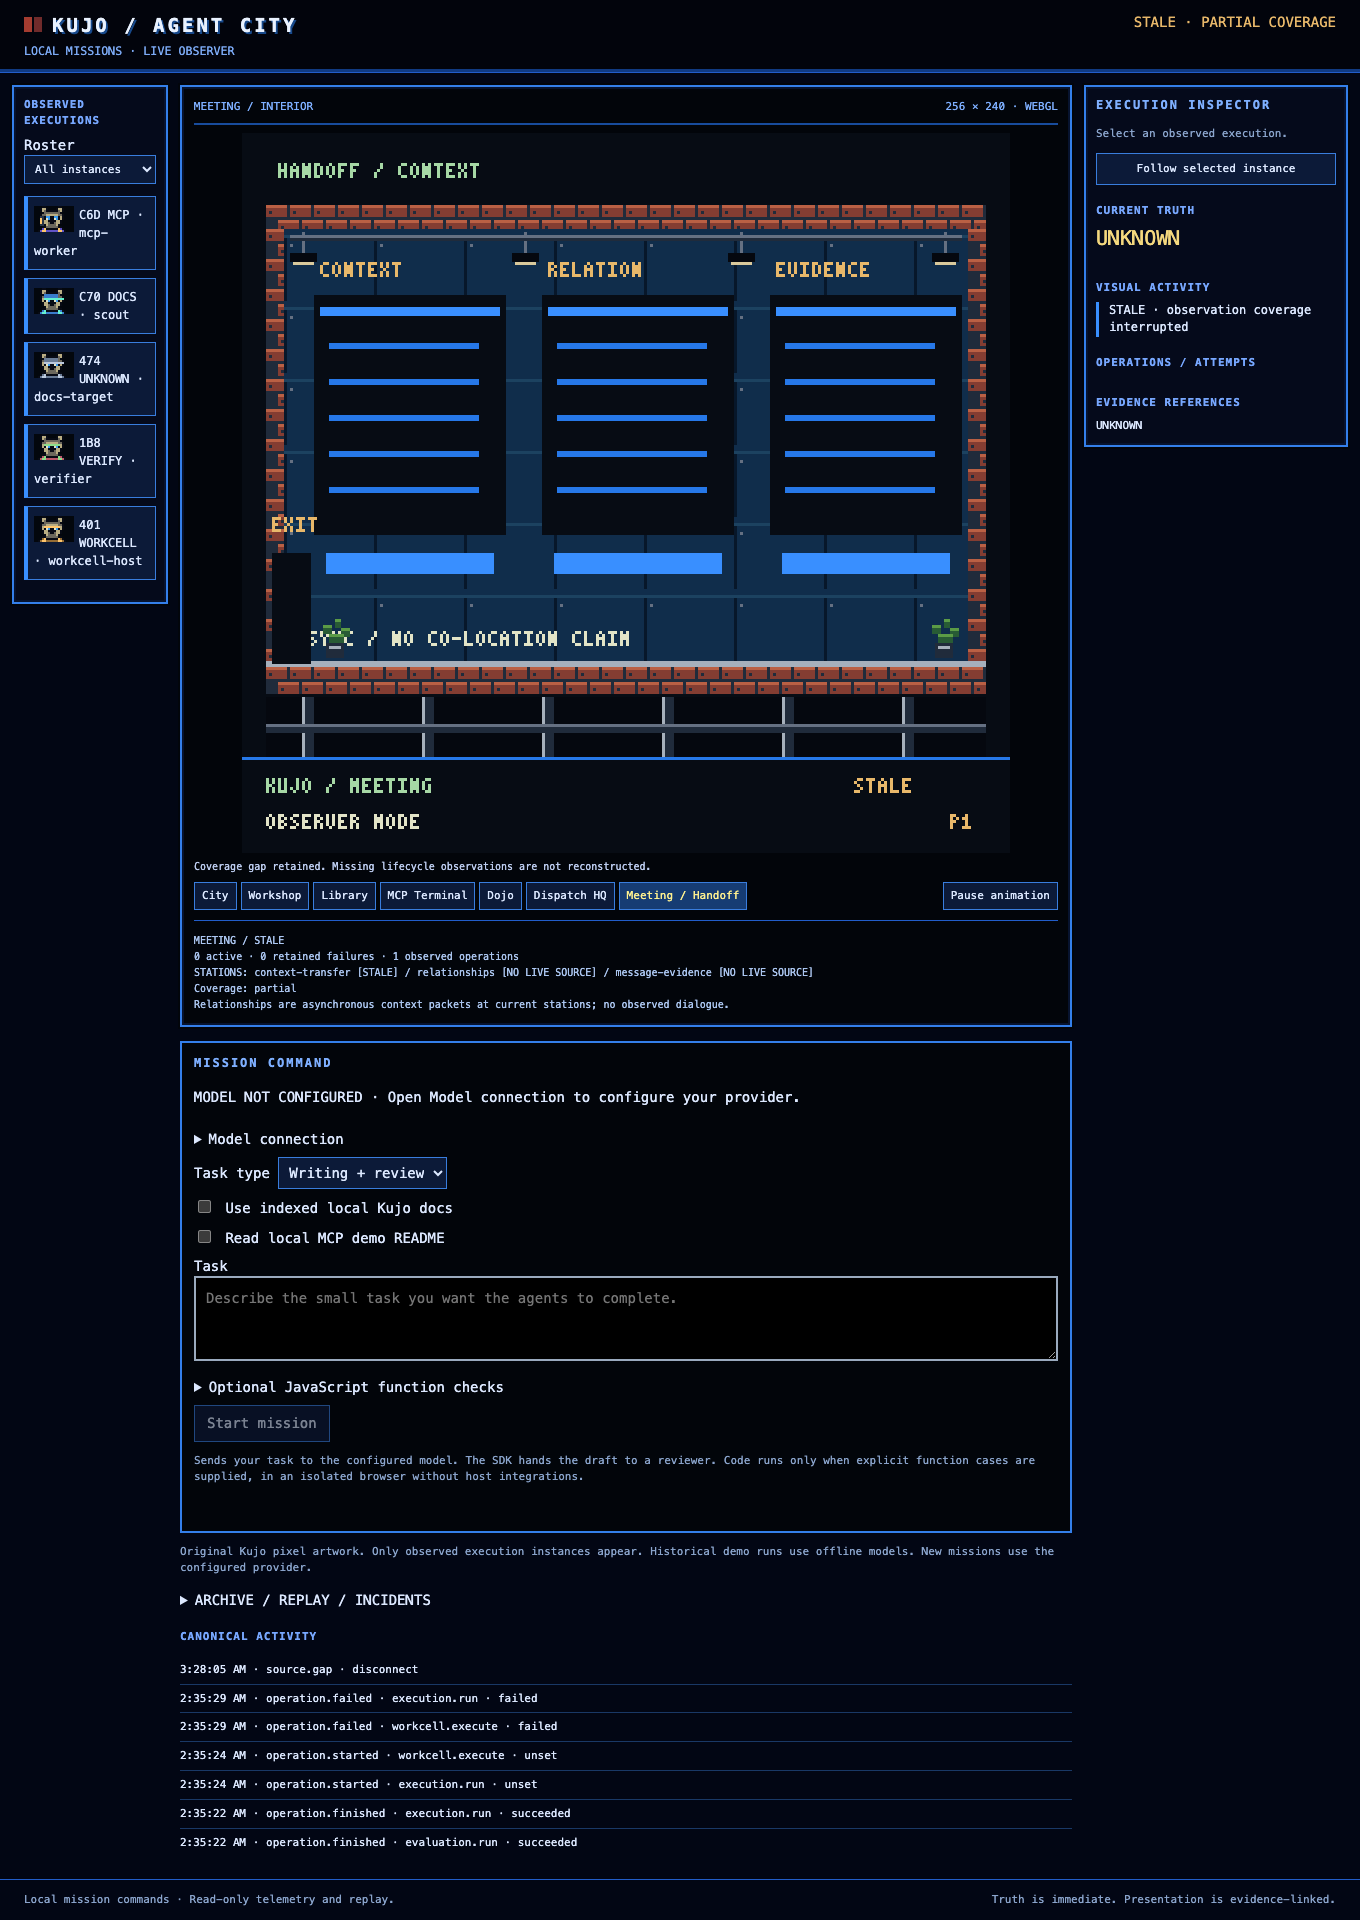
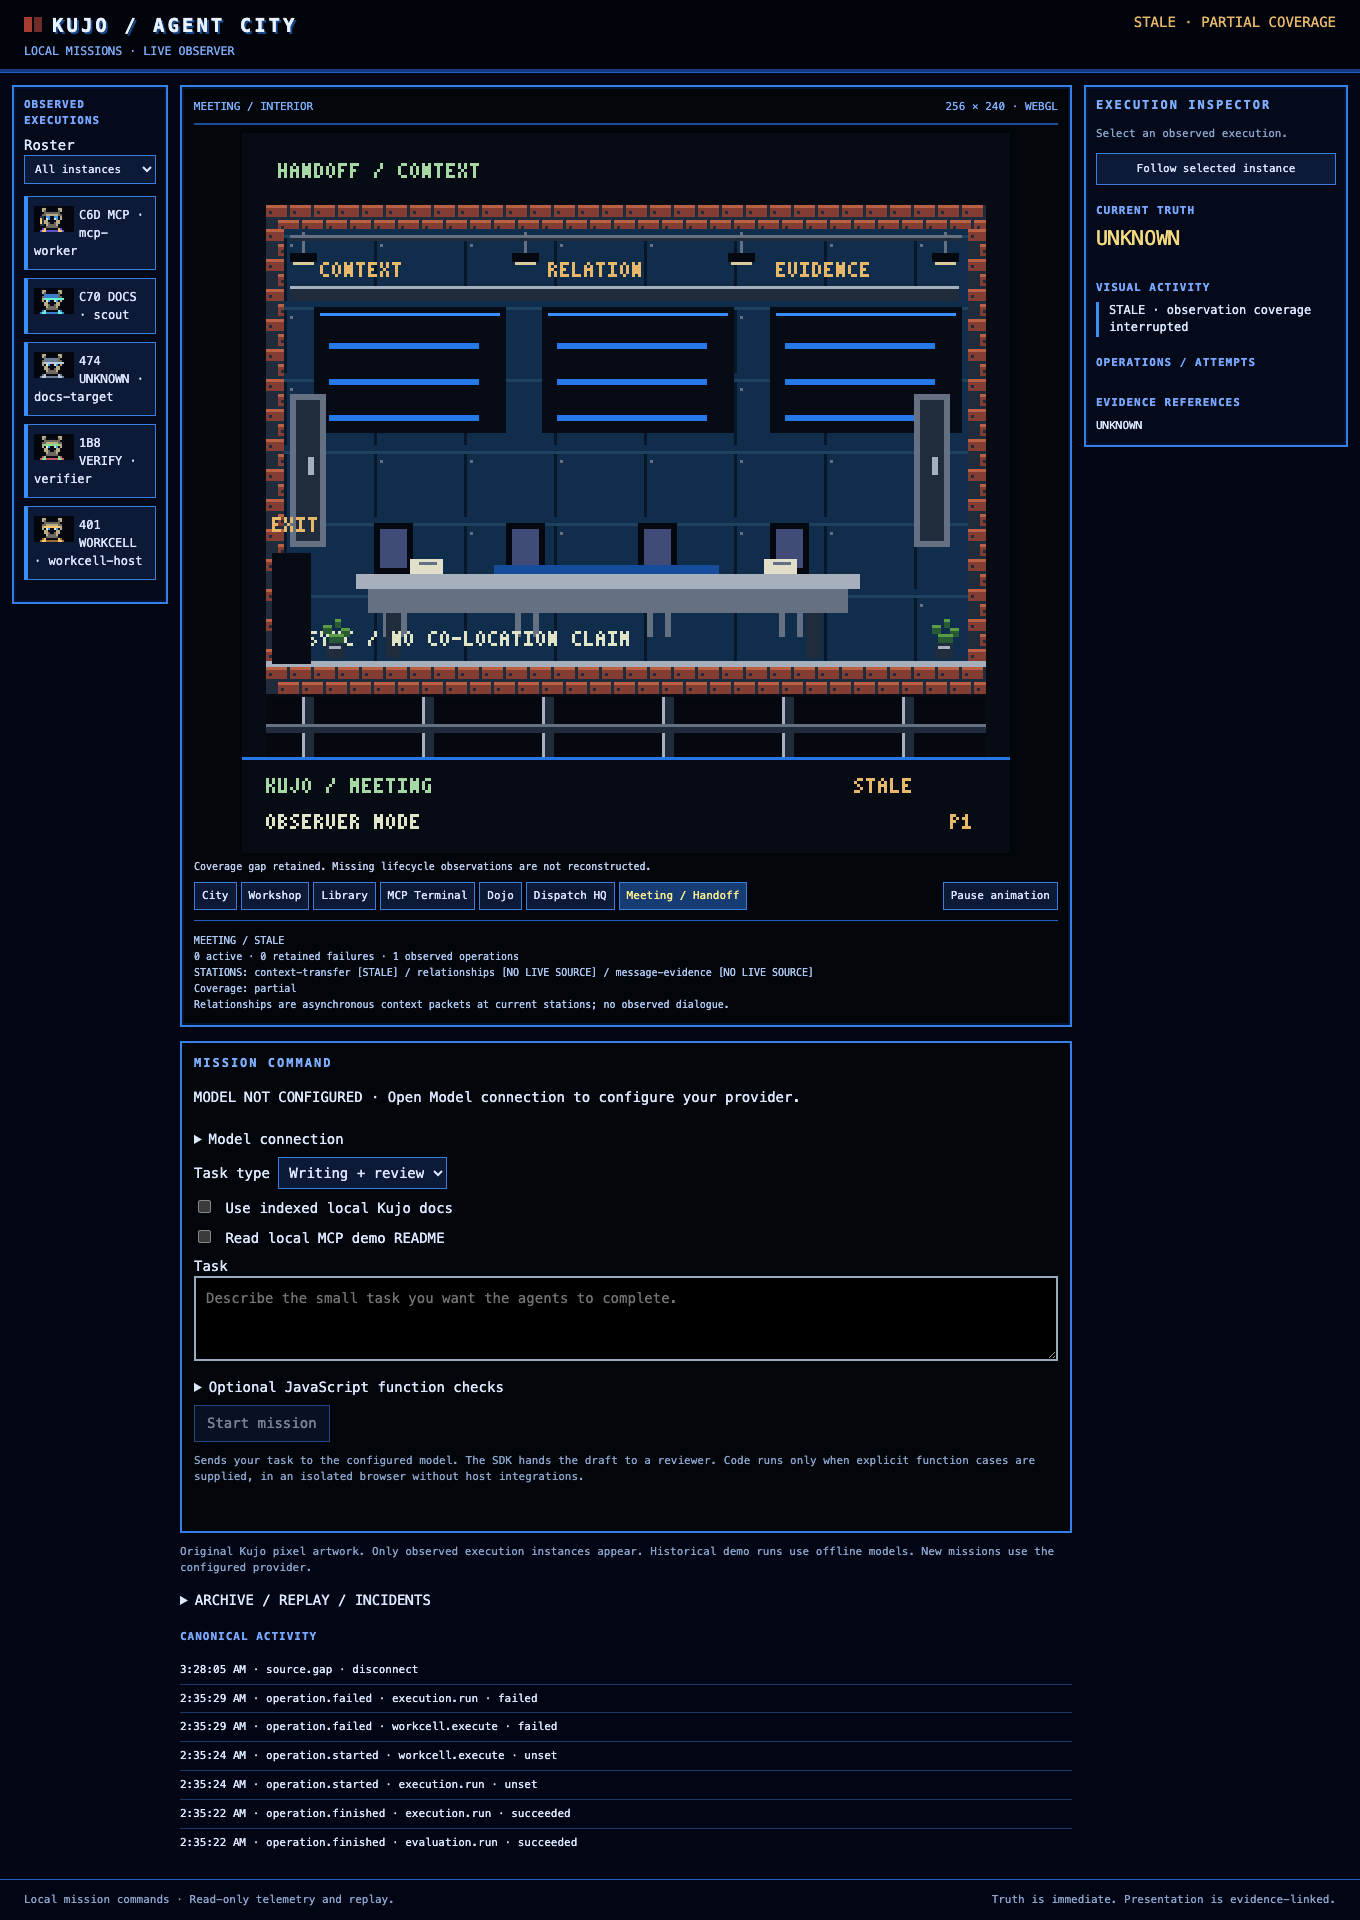
Record cityscape and real failure-pass rendering evidence

Changed region(s): [[0.2162, 0.125, 0.7103, 0.3438], [0.2471, 0.125, 0.3706, 0.1875]]

diff --git a/WORKING-EXPERIENCE.md b/WORKING-EXPERIENCE.md
@@ -221,3 +221,25 @@ DOM-only checks pass. The pinned 47-event semantic replay hash is unchanged.
 This closes the genuine-model MCP proof gap; varied city architecture, richer
 room scenery, broader conversational/task workflows and release hardening remain.
 No eight-hour soak was started; no sibling repositories were changed.
+
+## City architecture and truthful Dojo display
+
+The six plots now have distinct rooftop silhouettes: command tower/antenna,
+columned Library, skylit industrial Workshop, network rack house, tiered Dojo and
+meeting pavilion. Stone embankments, bridge decks, water texture and road paint
+follow the existing cells; portal coordinates and navigation graphs are unchanged.
+Dispatch consoles, empty meeting furniture and cable trays add original room detail.
+These static props do not represent participants, messages or operations.
+
+Dojo outcome display now uses world-core station mapping rather than matching
+literal station names inside operation IDs. This fixes missing function-check
+failure/pass history on the content station. Truth-dependent room backgrounds now
+invalidate on snapshot replacement, including different snapshots with equal order.
+
+`evidence/cityscape/proof.json` and `dojo-real-history.png` verify actual retained
+failed/pass function-check outcomes from the two preceding real-model cohorts.
+The renderer pixel check detects both labels; a clearly separate empty-snapshot
+negative control proves prior outcomes clear even with the same event order.
+This is replay/rendering verification, not a new source execution claim.
+Seven-room browser/keyboard/320px/DOM-only and 35 tests/build pass. Full original
+reference fidelity, conversational/task continuation UX and release gates remain.

diff --git a/evidence/cityscape/README.md b/evidence/cityscape/README.md
@@ -1,0 +1,16 @@
+# Cityscape and real Dojo history rendering
+
+Run `npx tsx scripts/cityscape-proof.ts` from Agent City. It starts an isolated
+local Vite server and replays retained real truth into the actual Pixi renderer.
+It never calls a model or executes a source operation.
+
+`proof.json` identifies the two real-model cohorts used. The first code attempt
+failed its checks; the subsequent model repair passed. Pixel extraction verifies
+both FAIL and PASS glyphs on the semantic content station, including operation IDs
+that are not literal station names. A separate empty-snapshot negative control
+with the same numeric order verifies old results cannot survive a replay reset.
+
+`city.png`, `dispatch.png` and `meeting.png` show original scenery at the unchanged
+256×240 logical resolution. Empty chairs/equipment are scenery, not invented agents
+or task activity. Full DOM UI screenshots and accessibility checks remain in
+`../visual-revision`. No final reference-fidelity approval or release claim.
